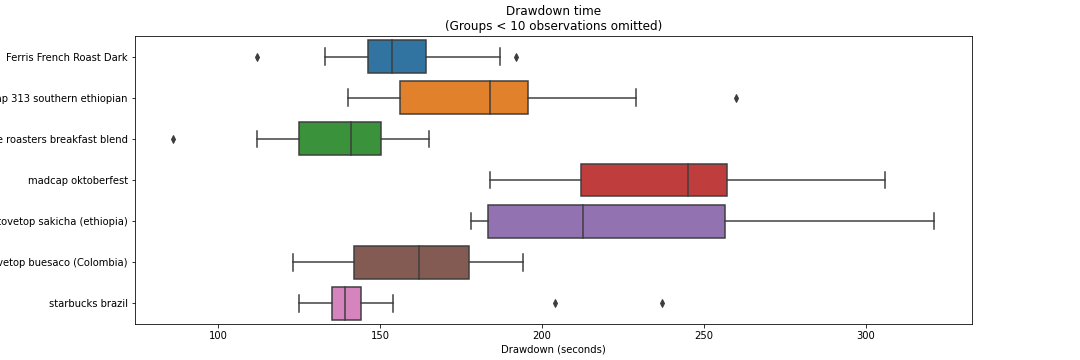
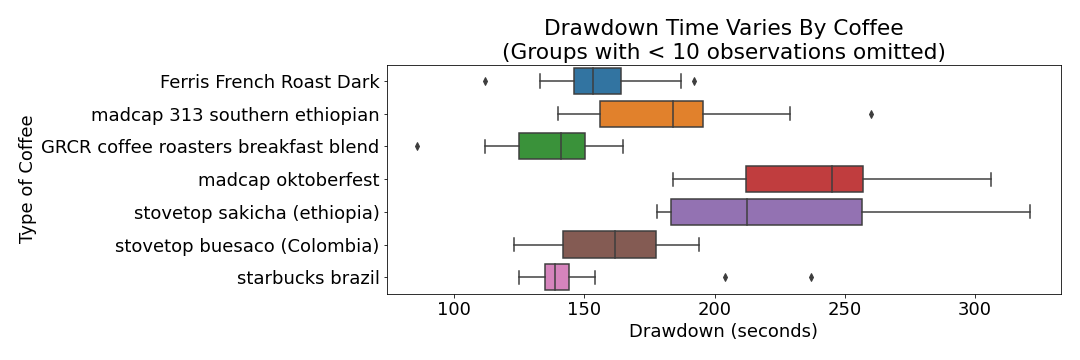
Almost done, basically final draft

diff --git a/content/project/coffee/index.md b/content/project/coffee/index.md
@@ -1,12 +1,12 @@
 ---
-title: Coffee Analysis
+title: Estimating My Morning Cup
 author: ''
 date: '2021-01-09'
 slug: coffee
 categories: []
 tags: []
 subtitle: ''
-summary: 'Analyzing Coffee'
+summary: 'How long does my morning coffee take?'
 url_code: "https://github.com/ayoskovich/coffee-log"
 authors: []
 featured: no
@@ -18,89 +18,82 @@ projects: []
 draft: true
 ---
 
-I've always wondered about the amount of time it takes me to brew coffee. Does it take me longer to make it earlier in the morning? Does it vary by the type of coffee I have? In order to answer these questions, I kept track of the amount of time it took me to make a cup of coffee. 
+I've always wondered about the amount of time it takes me to brew a cup of coffee. In order to answer this question I recorded the amount of time it took me to make a cup of coffee every day for over 3 months.
 
 ---
 
-### Summary
-I got faster at counting the beans, but didn't get more accurate when counting them out. Grind times were different between coffees as well as the drawdown times. On average it takes around 13 minutes to make coffee, and on average it varies by 2ish minutes. After some time value calculations I end up saving money by purchasing an electric grinder or scale.
+### Tl;dr / Summary
+On average it takes me 13 minutes to make a cup of coffee and that average varies by 2 minutes. I got faster measuring out the beans but didn't get more accurate when eyeballing the amount. The amount of time it took to grind the beans were different across coffees as well as the amount of time it took for all the water to pass through the ground beans. I'd end up saving money in less than a year if I purchased an electric grinder and scale.
 
 ---
 
 ### Coffee Brewing Process
 
-
 The way I brew coffee looks something like this:
 ![](pourover.jpeg)
 
-I start with a bag of whole bean coffee, count out 173 beans, and then grind them up using a manually cranked coffee grinder. Hot water is poured over ground coffee beans and the water passes through and into some sort of vessel. This process gave me quite a few things I could keep track of:
+I start with a bag of whole bean coffee, count out 173 beans, and then grind them up using a manually cranked coffee grinder. I pour hot water over the coffee beans and the water passes through them into a cup. I decided to keep track of a few things throughout the coffee brewing process: 
 
-- Count Time: Time to count out the beans 
-- Grind Time: Time to grind the beans manually
-- Draw Down Time: Time for the water to pass through the coffee grounds
-- Number of beans I was supposed to count out (need to control for this)
-- Number of beans I actually poured out (I was eyeballing everything)
+- cTime: Time to count out the beans 
+- gTime: Time to grind the beans manually
+- bTime: Time for the water to pass through the coffee grounds
+- count: Number of beans I was supposed to count out 
+- over: Number of beans I actually poured out 
+- duration: Total amount of time the cup took to make
+
+Here's a screenshot of the data, and you can find the code [here](https://github.com/ayoskovich/coffee-log).
+
+![](data.png)
 
 ---
 
-I recorded data 104 times between August 27th, 2020 and December 26th, 2020, and the below plot shows the total amount of time the coffee brewing process took each day.
+I recorded data 104 times between October 27th, 2020 and December 26th, 2020. The below plot shows the total amount of time the coffee brewing process took each day.
 ![](total.png)
 
-It took 13.3 minutes to brew a cup of coffee on average, and varies by around 2 minutes. The fastest cup took 10 minutes of make, and the longest cupt took 20 minutes to make.
+It took 13.3 minutes to brew a cup of coffee on average, and varies by around 2 minutes. The fastest cup took 10 minutes to make, and the longest cup took 20 minutes to make.
 
 ---
 
-Not all records contained all of the fields, as I didn't start recording the start / end times until 30 or 40 records in, so there is some filtering that happens when you see these visualizations. 
-
-I used 11 different types of coffee throughout the project.
-![](coffee_bar.png)
-
-Things like brew time and grind time definitely vary by coffee, and I think this has more to do with the coffee bean shape / size / weight than anything I can control.
+Things like brew time and grind time seem to vary by the type of coffee, but this likely has more to do with the coffee bean shape / size / weight than anything I can control.
 
 ![](total_brew.png)
 
-
-Maybe the grind time varies
 ![](grind_time.png)
 
-
-Or the draw down time
 ![](draw_down.png)
 
 
-The drawdowns do appear to vary by coffee.
-
 ---
 
-As I started to do this consistently, I started to wonder if I was getting any faster at counting out the beans.
+As I started to record data consistently, I began to wonder if I was getting any faster at counting out the beans.
 ![](c_over_time.png)
 
-The first few times I got lots better, but the returns appear to be diminishing. Now I'm at less than 100.
+The first 20 or so times I improved quite a bit, but the gains dimished quite quickly after that. 
 
 ---
 
-I wondered the same thing with my pouring accuracy. That is, am I getting better at eyeballing 173 beans after I pour the beans out of the bag?
+I also wondered the same thing about my pouring accuracy. In other words, am I getting better at eyeballing the number of beans I need to pour out?
 ![](overages.png)
 
 Doesn't look like I really improved on pouring them out, and I was way more likely to overpour than underpour. 
 ![](overages_by_cof.png)
 
+The Stovetop Buesaco, Stovetop Sakicha, and Starbucks Brazil coffess were the main culprits of my underpouring.
+
 ---
 
-### Money Money Money
+## Money Money Money
+I could reduce the total brewing time if I had some more electronic equipment. For example, I wouldn't have to manually count out the beans if I had a scale, and I could grind the beans almost instantly if I had an electric coffee grinder. Allow me to throw out 2 extremely rough estimates of what these tools would cost:
+- Scale: around $50
+- Electric grinder: $200 (yes that's 2 zeros, I need a good one...)
 
-Both the time it takes me to count out the beans and the time it takes me to grind them could be reduced. But would these upgrades be worth it? For that I'll have to turn to one of my previous projects, [amisaving](https://anthonyyoskovich.com/project/amisaving/).
-
-Tackle one at a time:
-- Scale to stop counting: around $50
-- Electric grinder to stop manually grinding: $200 (yes, that expensive)
-
-I suppose at this point I'm missing something for this comparison to be possible, and that's some sort of measurement for the value of my time. If I'm going to save 15 minutes by making the purchase, I need some sort of way to value my time. I'll use my wage, which let's say is $25. The value of my hour. 
-
-To simplify things, let's say that both of these pieces of equipment completely eliminate the time required for counting and grinding. In other words, the grinding is instant and the "counting" by weighing is instant.
+In order to start judging whether or not these investments are worth my money, I need some sort of measurement for the value of my time. I'd say I value 1 hour of my time at around $25. I know that with my current, no equipment setup, I'm spending at least this much time:
 
 - Avg count time: 2 minutes
 - Avg grind time: 2 minutes
 
-So basically, at 25 / hour, I would save 4 minutes every day, or (25/60) * 4 = $1.66. I'd start saving money after 150 uses, which is a little less than half of a year. So yeah, I think for my wallet AND my sanity it would be a good idea to invest in some technology to bring me out of the stone age.
+By purchasing a scale and an electric grinder, I would save around 4 minutes every day.
 
+At $25 / hour, (25/60) * 4 = $1.66. I'd save $1.66 each use. After inputting these values into my handy, custom built calculator <a href="http://www.amisaving.com" target="_blank">amisaving</a>, I'd start saving money after 150 uses, which is a little less than half of a year. 
+
+So yeah, I think for my wallet AND my sanity it would be a good idea to invest in some technology to bring me out of the stone age.
